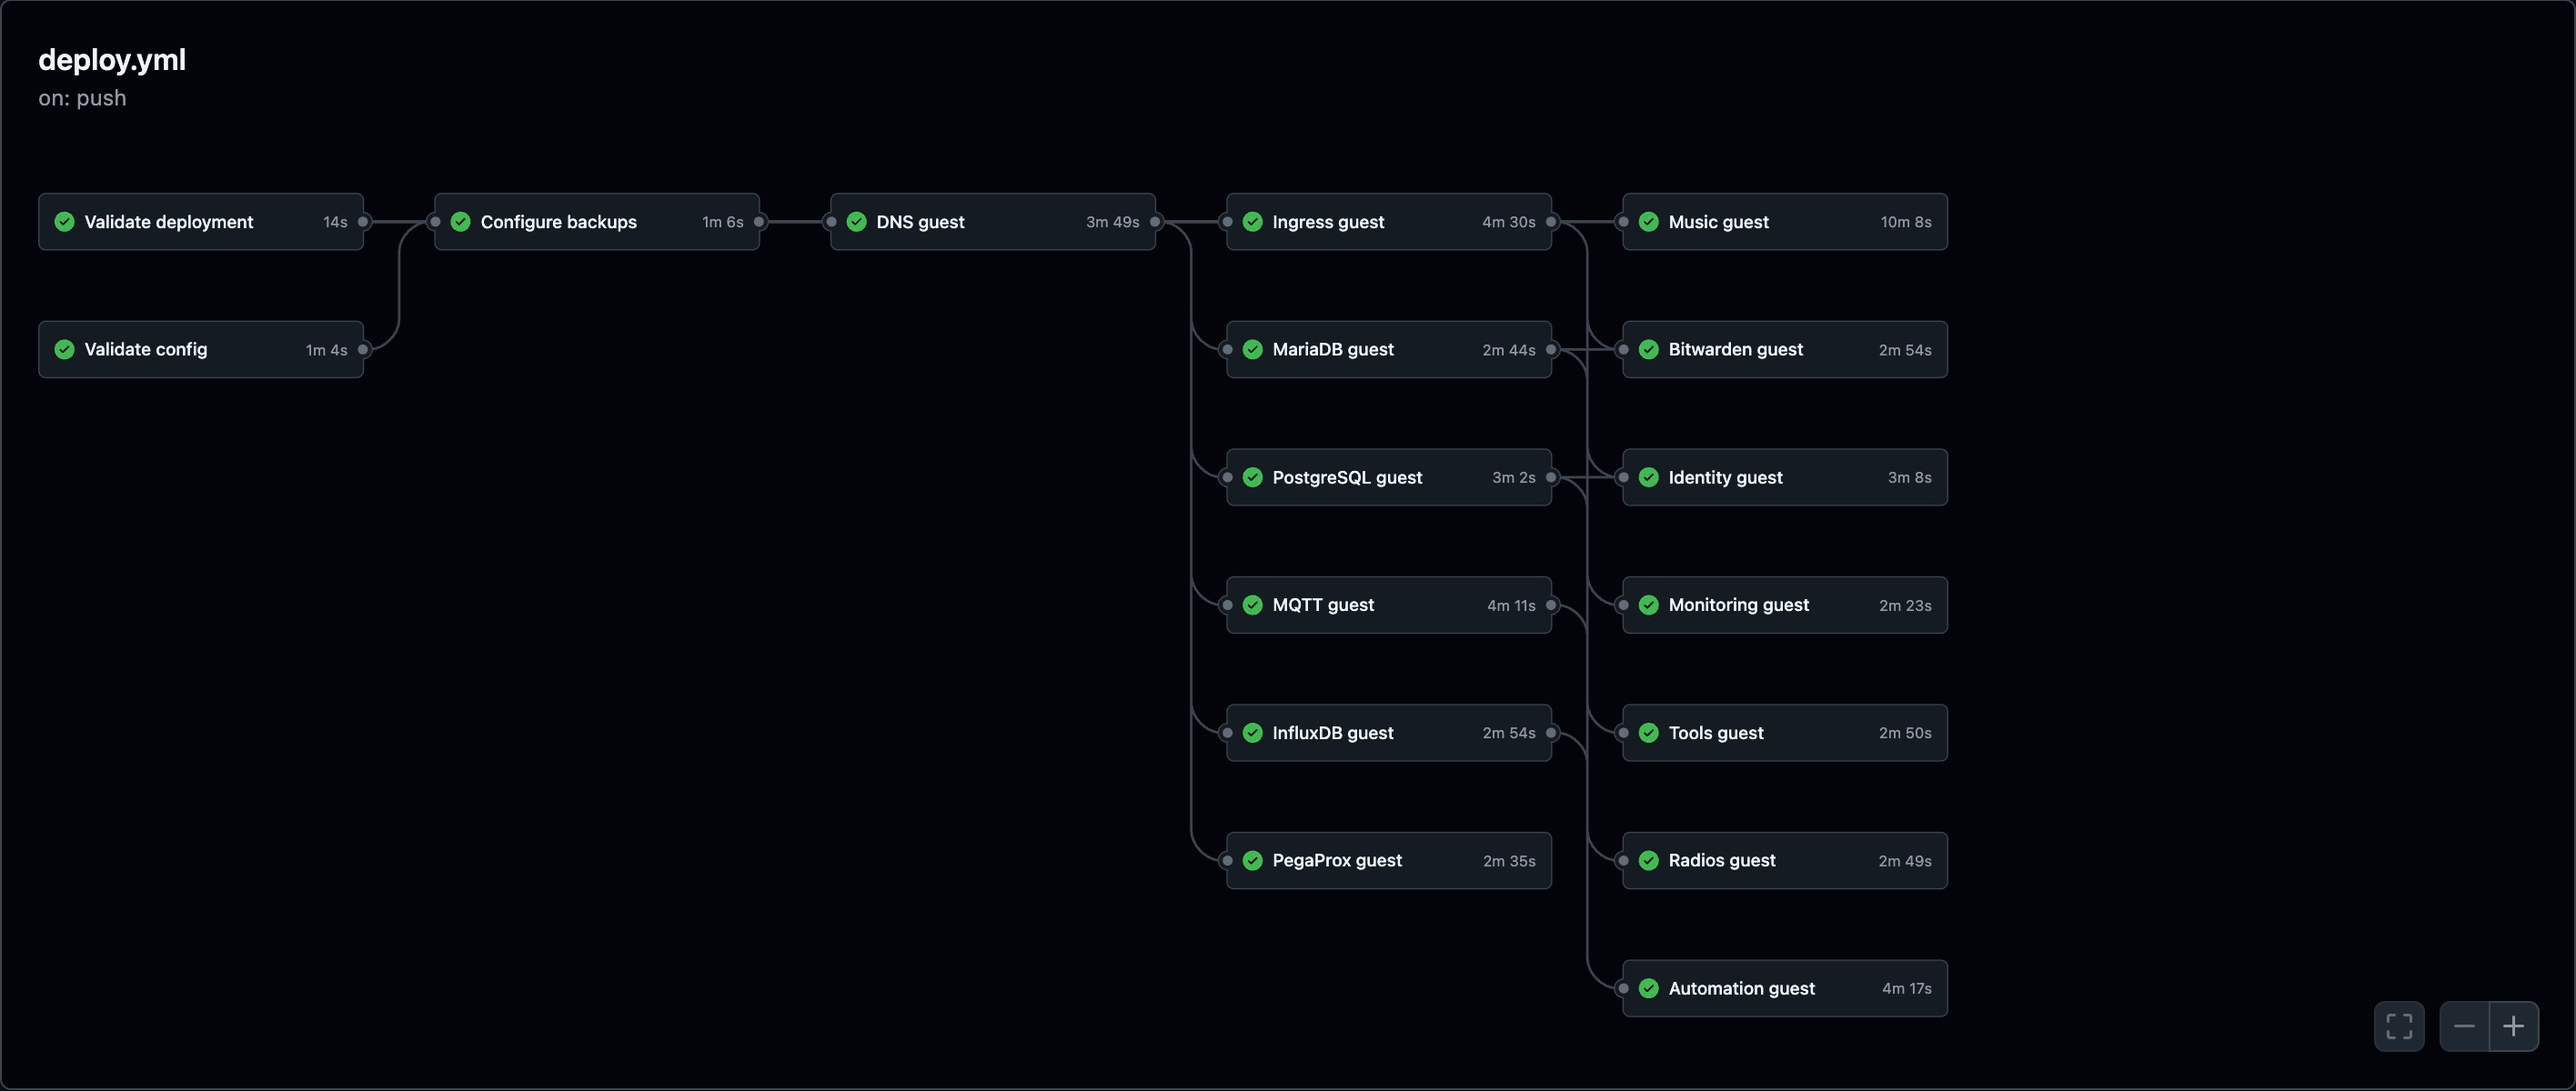
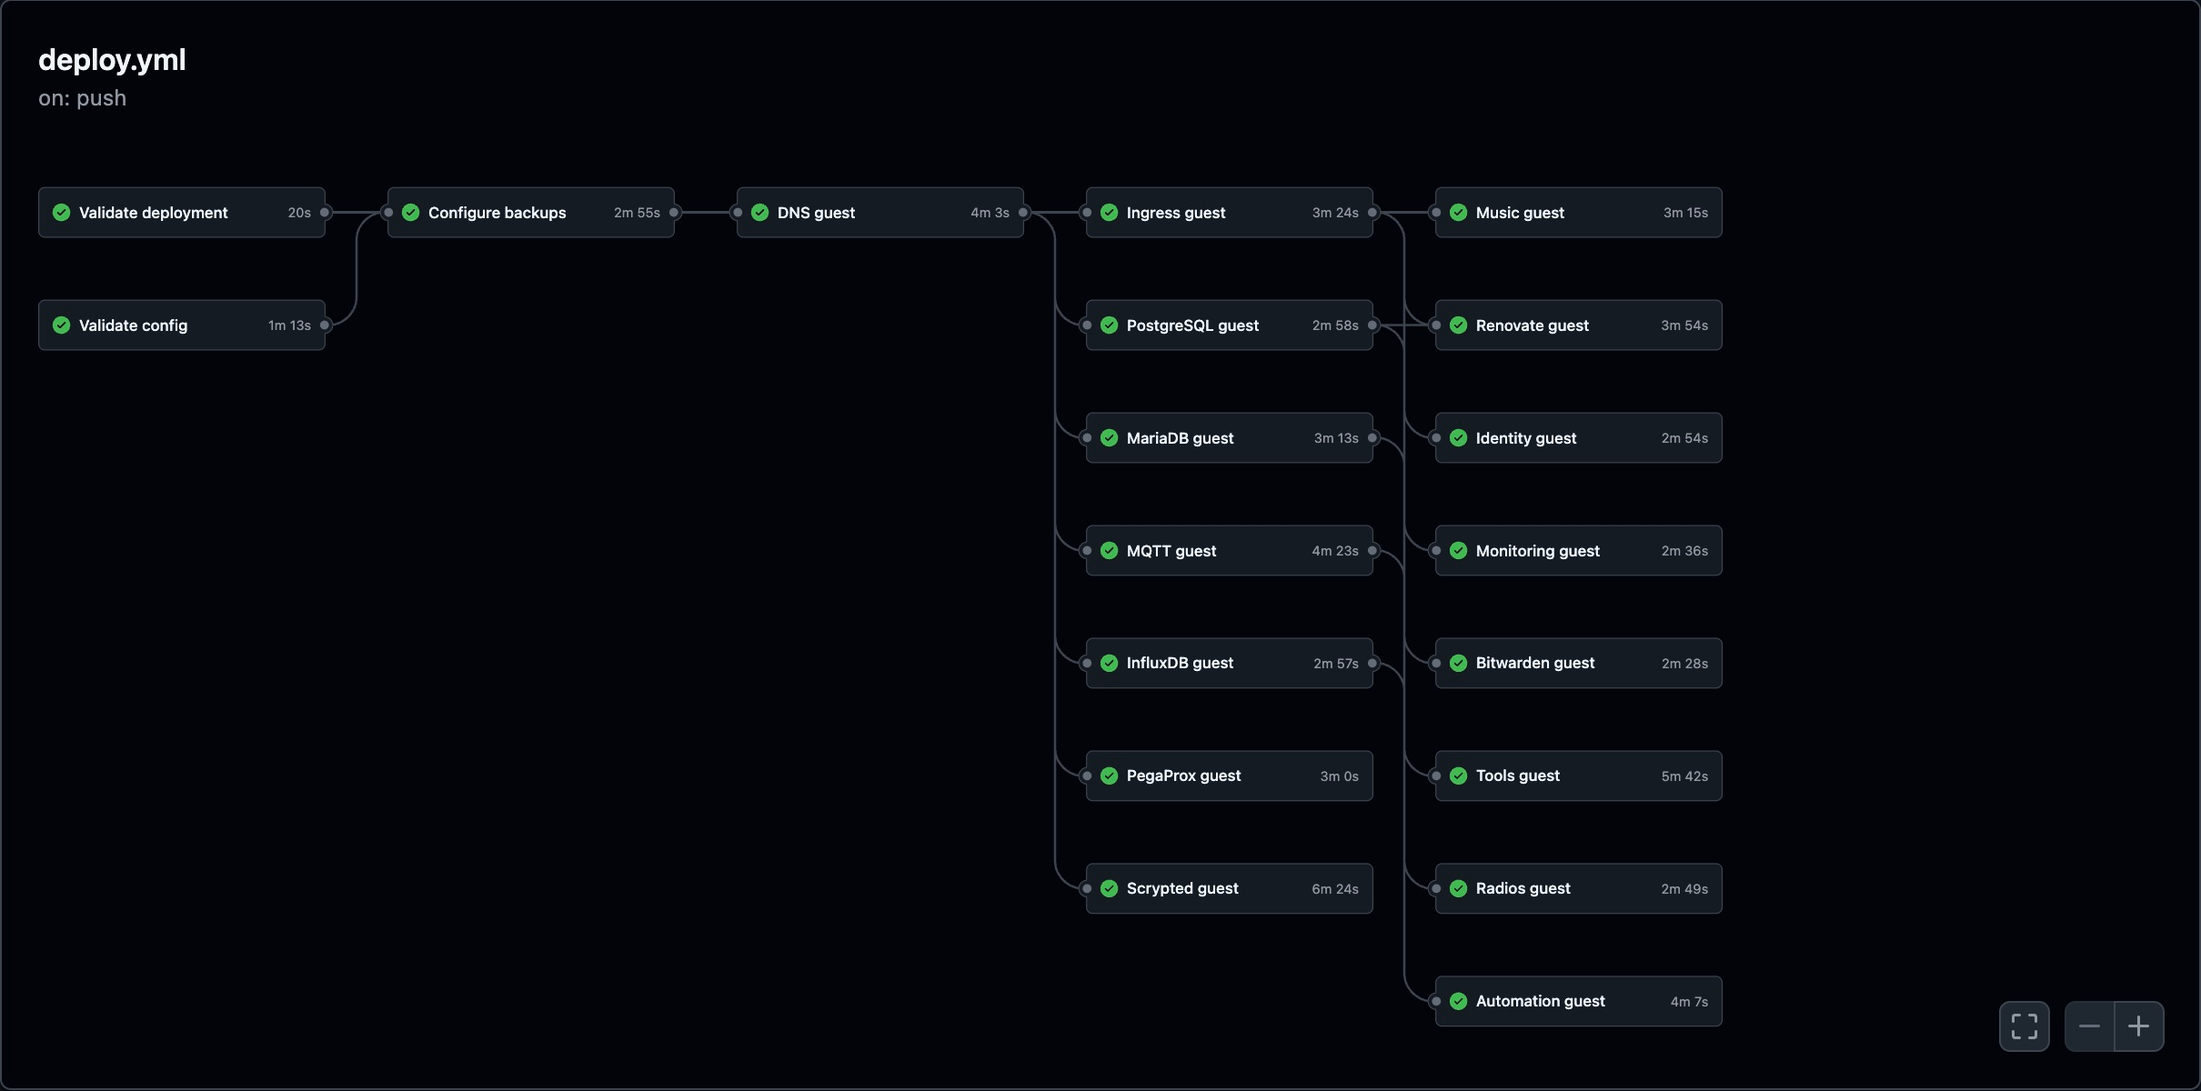
Refresh deployment evidence to 19 jobs and 16 guests (#32)

diff --git a/tests/site.spec.ts b/tests/site.spec.ts
@@ -342,10 +342,27 @@ test('article introduction exposes shared metadata in both themes', async ({
       await expect(page.locator('.hl-reading-time dd')).toHaveText(
         /^[1-9]\d* min read$/,
       );
-      await expect(page.locator('.hl-article-meta time')).toHaveAttribute(
+      const metadata = page.locator('.hl-article-meta');
+      const published = metadata.locator('div').filter({
+        has: page.getByText('Published', { exact: true }),
+      });
+      await expect(published.locator('time')).toHaveAttribute(
         'datetime',
         '2026-11-11',
       );
+      const updated = metadata.locator('div').filter({
+        has: page.getByText('Updated', { exact: true }),
+      });
+      if (path === '/architecture/proxmox-without-kubernetes/') {
+        await expect(updated).toHaveCount(0);
+        await expect(metadata.locator('time')).toHaveCount(1);
+      } else {
+        await expect(updated.locator('time')).toHaveAttribute(
+          'datetime',
+          '2026-11-16',
+        );
+        await expect(metadata.locator('time')).toHaveCount(2);
+      }
     }
   }
 });
